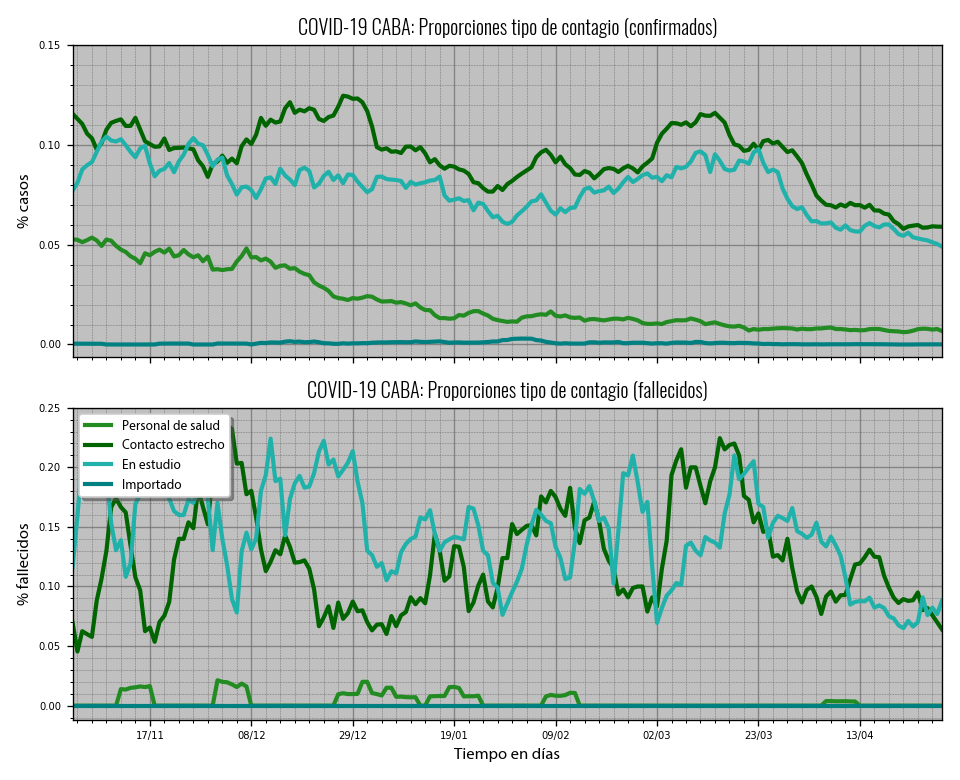
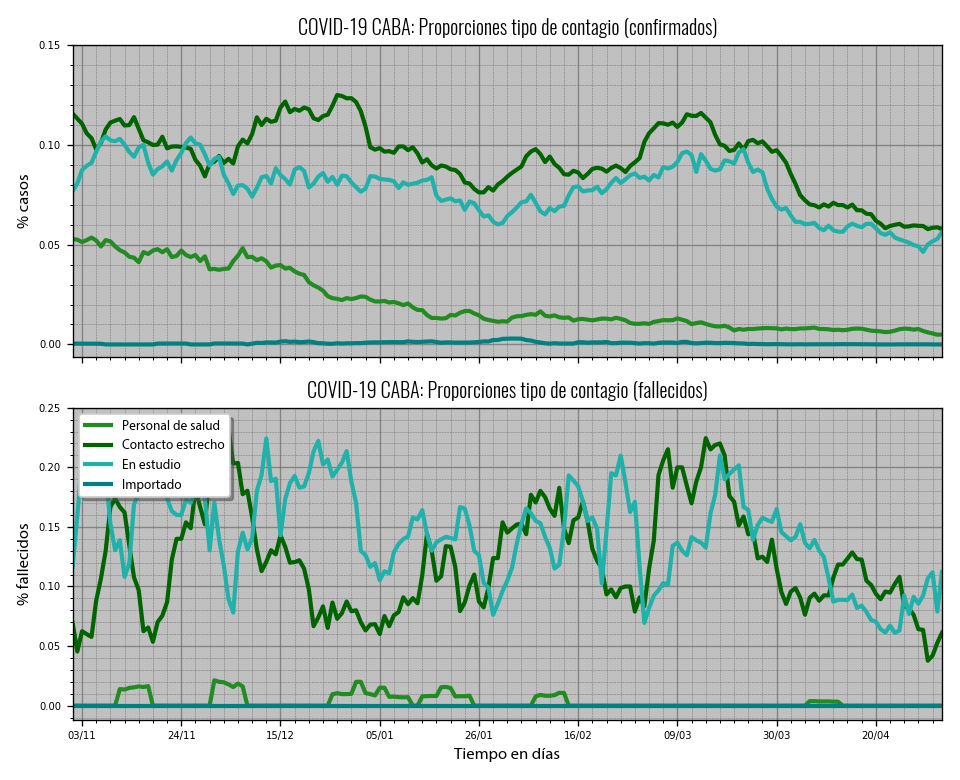
Updating charts...

diff --git a/chart_config.py b/chart_config.py
@@ -26,7 +26,7 @@ language = 1 #0 = english, 1 = spanish
 legend_text_size = 8
 plot_scale = "linear"
 start_date = "2020-11-01"
-end_date = "2021-05-14"
+end_date = "2021-05-18"
 week_interval = 3
 v_start_date = "2021-01-01"
 v_week_interval = 2
